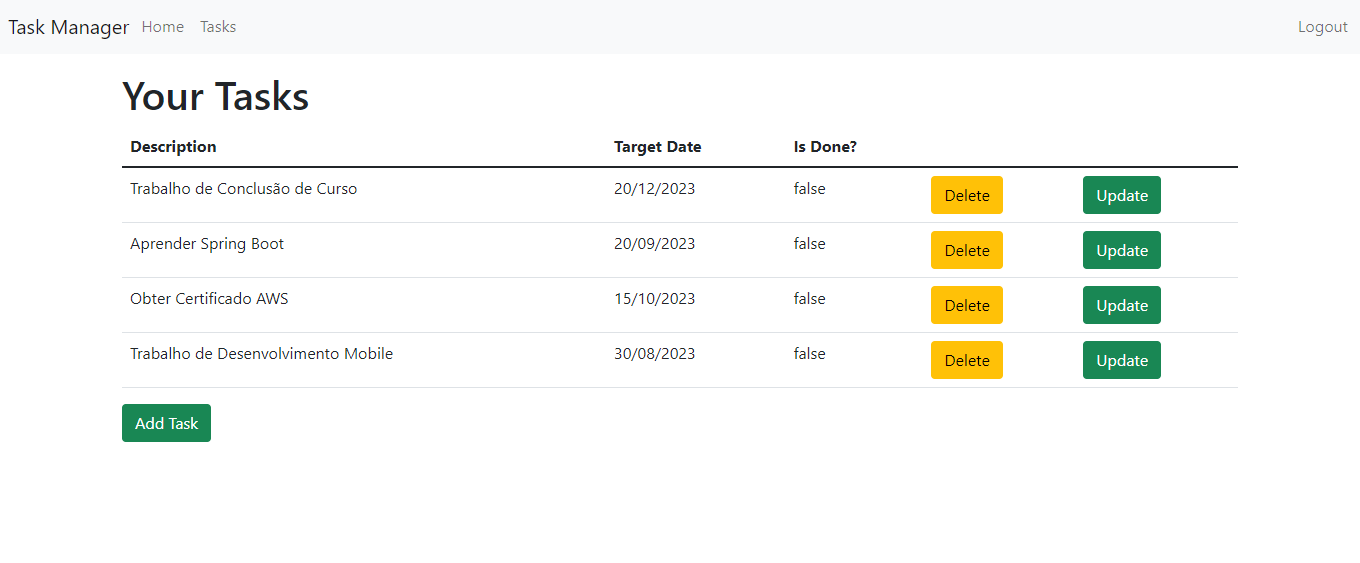
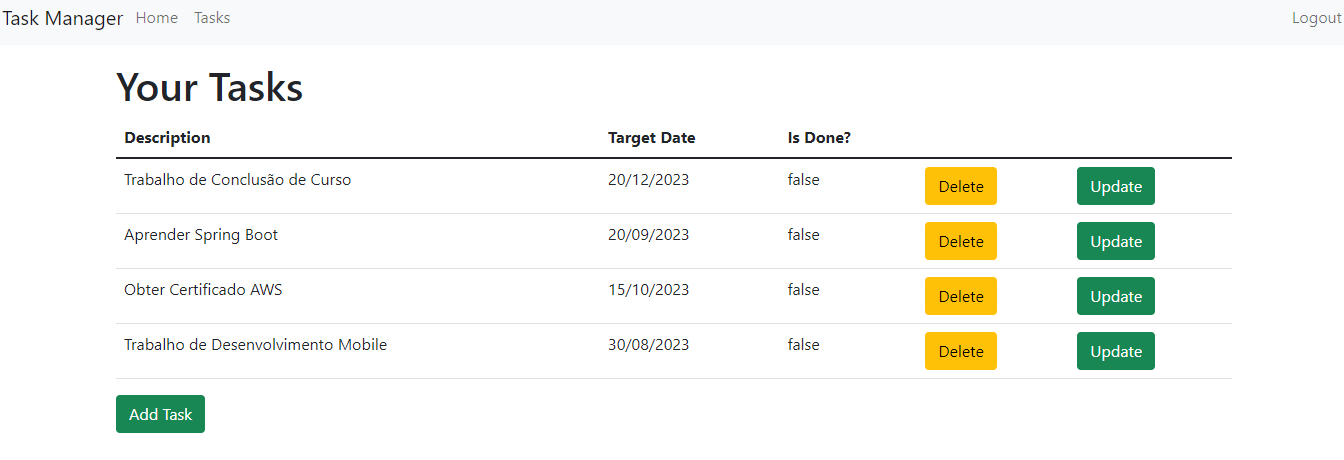
update

diff --git a/index.html b/index.html
@@ -26,7 +26,7 @@
               <div style="margin-left: 2em;" class="blurb">
                 <h2><strong>GetAPet</strong></h2>
                 <p>Uma SPA (Single Page Application) onde usuários cadastram e adotam pets, possuindo registro e autenticação com Token. Tecnologias usadas incluem React, API, Restful, Express, MVC e MongoDB com Mongoose.
-                  <a href="https://github.com/MuneLiesWithin/GetAPet">Link para o código fonte</a>
+                  <a href="https://github.com/MuneLiesWithin/GetAPet" target="_blank">Link para o código fonte</a>
                 </p>
               </div>
             </div>
@@ -39,7 +39,7 @@
               <div class="blurb">
                 <h2><strong>Thoughts</strong></h2>
                 <p>Projeto feito para o compartilhamento dos pensamentos de seus usuários, possuindo cadastro, autenticação e banco de dados. Feito com Node.js, Express, Handlebars e Sequelize.
-                  <a href="https://github.com/MuneLiesWithin/Thoughts">Link para o código fonte</a>
+                  <a href="https://github.com/MuneLiesWithin/Thoughts" target="_blank">Link para o código fonte</a>
                 </p>
                 
               </div>
@@ -51,11 +51,11 @@
 	<path d="M0,6471.9V5454.2h206.5h206.5v436.2v436.2h7.6c19.8,0.3,107.9,5.7,128.3,8.2c90.2,10.9,154.9,29.4,220.4,62.8c141.1,72.6,213.3,213.3,228.3,444.1c8.7,135.3-7.3,272.3-42.9,368.3c-48.6,130.5-131,212.8-253.8,253.8c-15.5,5.2-43.5,12.8-62.2,17.1l-34,7.3l-302.2,0.8L0,7490V6471.9z M490.5,7190.8c51.1-13.6,71.2-28.8,92.9-69.8c22.3-41.9,26.4-81.5,24.7-243.2l-1.4-115l-8.4-32.1c-10.9-40.5-13.6-45.4-35.6-67.9c-21.2-22-30.7-27.4-60.6-34.5c-18.8-4.3-68.2-10.9-82.6-10.9c-3.3,0-3.8,44-3.8,291.1v291.3l26.6-1.6C456.8,7197.3,478.6,7194,490.5,7190.8z"/>
 </g>
       <div class="wrapper">
-        <div class="camera"><img style="height:285px;width: auto;"src="assets/img/TaskManager2.png" alt="TaskManager"></div>
-        <div class="blurb">
+        <div class="camera"><img style="height:250px;width: auto;"src="assets/img/TaskManager2.png" alt="TaskManager"></div>
+        <div class="blurb" style="position: relative; left: 20%;max-width: 400px;">
           <h2><strong>Task Manager</strong></h2>
           <p>Um Gerenciador de Tarefas com autenticação onde o usuário pode administrar suas tarefas com as operações CRUD. Feito com Spring Boot, Spring Security e Banco de Dados H2.
-            <a href="https://github.com/MuneLiesWithin/ToDoManager">Link para o código fonte</a>
+            <a href="https://github.com/MuneLiesWithin/ToDoManager" target="_blank">Link para o código fonte</a>
           </p>
         </div>
       </div>
@@ -68,7 +68,7 @@
         <div class="blurb">
           <h2><strong>Star Wars Random Wiki</strong></h2>
           <p>Um Wiki que retorna de maneira aleatória informações sobre os personagens, planetas e espaçonaves da saga Star Wars. Feito com HTML, CSS e Javascript puros, com o intuito de testar a Fetch API.
-            <a href="https://github.com/MuneLiesWithin/StarWars-Wiki">Link para o código fonte</a>
+            <a href="https://github.com/MuneLiesWithin/StarWars-Wiki" target="_blank">Link para o código fonte</a>
           </p>
         </div>
         <div class="featured"><img src="assets/img/StarWars.png" alt="StarWars"></div>
